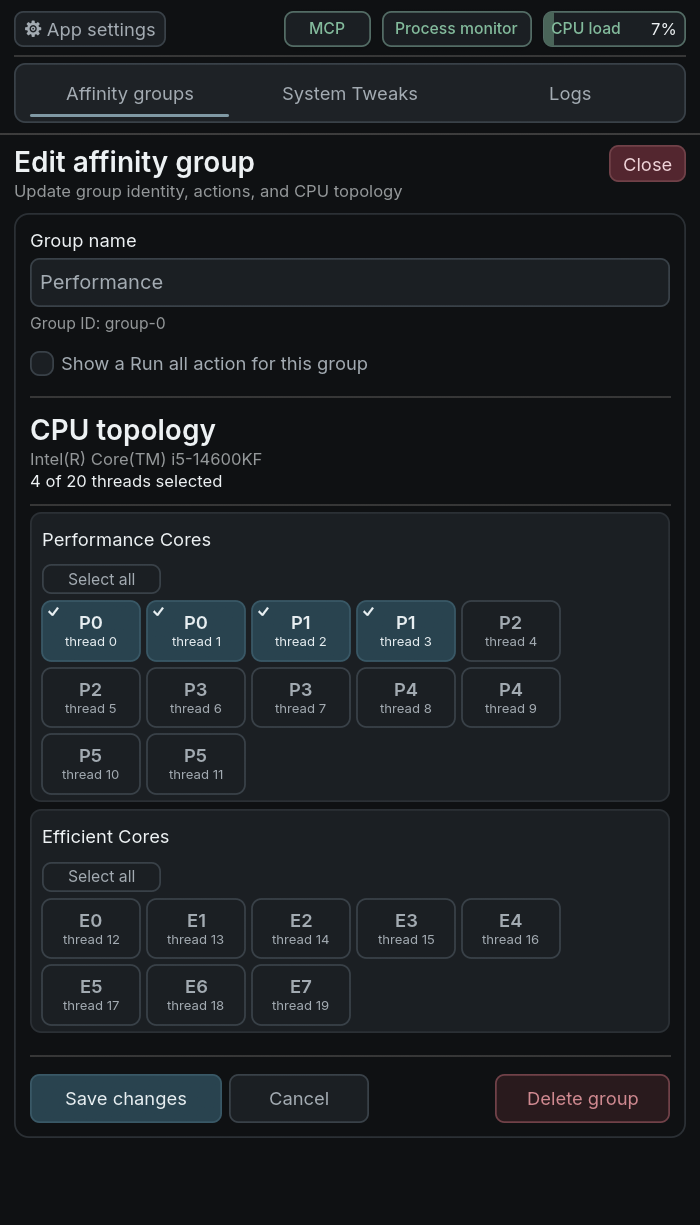
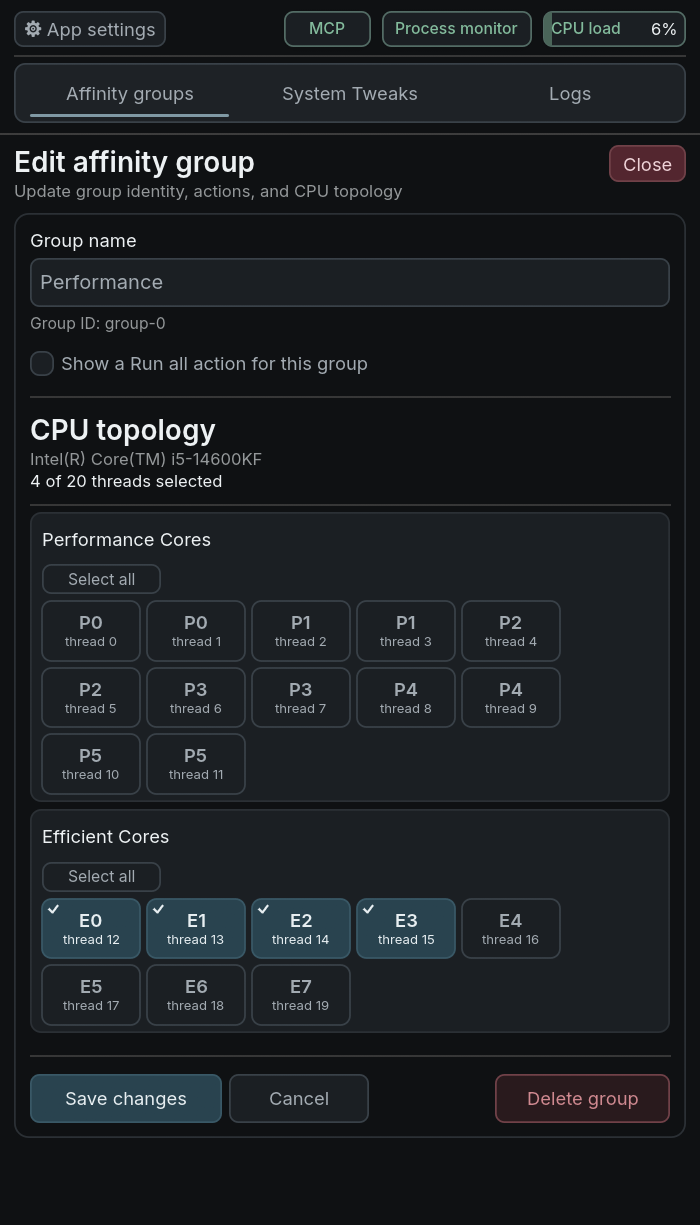
Refresh README scenes for selected CPU capacity meters

Changed region(s): [[0.06, 0.7135, 0.66, 0.8065], [0.06, 0.4653, 0.66, 0.5584], [0.93, 0.0, 0.96, 0.031]]

diff --git a/assets/screenshots/README.md b/assets/screenshots/README.md
@@ -3,7 +3,7 @@
 These images show the current Windows interface with synthetic rules and owned
 demonstration processes. They were captured through the existing diagnostic MCP
 renderer using package version **1.7.2**. Capture-time source was
-`974de6fc23fdac8743e025125ed1bd8be04dfdb7`; the diagnostic EXE's SHA-256, UTC time,
+`5bd9ab9beabb581bdf1723f92c3f0d7f07e45f3e`; the diagnostic EXE's SHA-256, UTC time,
 scale, scene/frame identities and original PNG hashes are in
 [`capture.json`](capture.json). This is documentation capture, not certification
 of a published executable or a performance benchmark.
@@ -30,19 +30,17 @@ the repository's bounded test workload. CPU activity is measured by the normal
 collector, not injected or redrawn. CPU selections and current Windows settings
 reflect the capture host and are not universal recommendations.
 
+Application and group meters count work on the group's selected logical CPUs,
+whose combined capacity is 100%. The matching group/application values in the
+demo share the same measured interval and exact process union. Per-CPU graphs
+retain their own 100% scale; the header meter covers the whole processor.
+
 No working user rules, published executable, real services or Windows settings
 were changed. The app, workloads, listener, ticket and temporary keys were
 cleaned up successfully. Refresh affected scenes alongside visible UI changes
 using [the capture and publication workflow](../../docs/readme-screenshots.md).
 
-Reviewed for the 2026-11-01 access-denial fix: the new **Limited access / Retry**
-state occurs only when Windows refuses scheduling access. None of the eight
-captured scenes contains that condition; their existing row geometry, normal
-status labels, metrics and navigation remain representative. The new state was
-inspected separately in actual dark/light MCP frames. The original capture
-source, images and provenance above have not been relabeled as a fresh capture.
-
-The subsequent correction/admission review fixes change runtime eligibility,
-denial bookkeeping and Steam warning retention. They do not alter the geometry,
-copy or normal data shown in these eight non-Steam scenes. Existing captures
-remain representative; this review is not a new capture.
+All eight scenes were refreshed on 2026-11-01 after the CPU-capacity change.
+The original full-size frames and the lead image at README display width were
+visually reviewed. **Limited access / Retry** and Steam detection warnings were
+tested separately; these demonstration scenes show normal process access.
